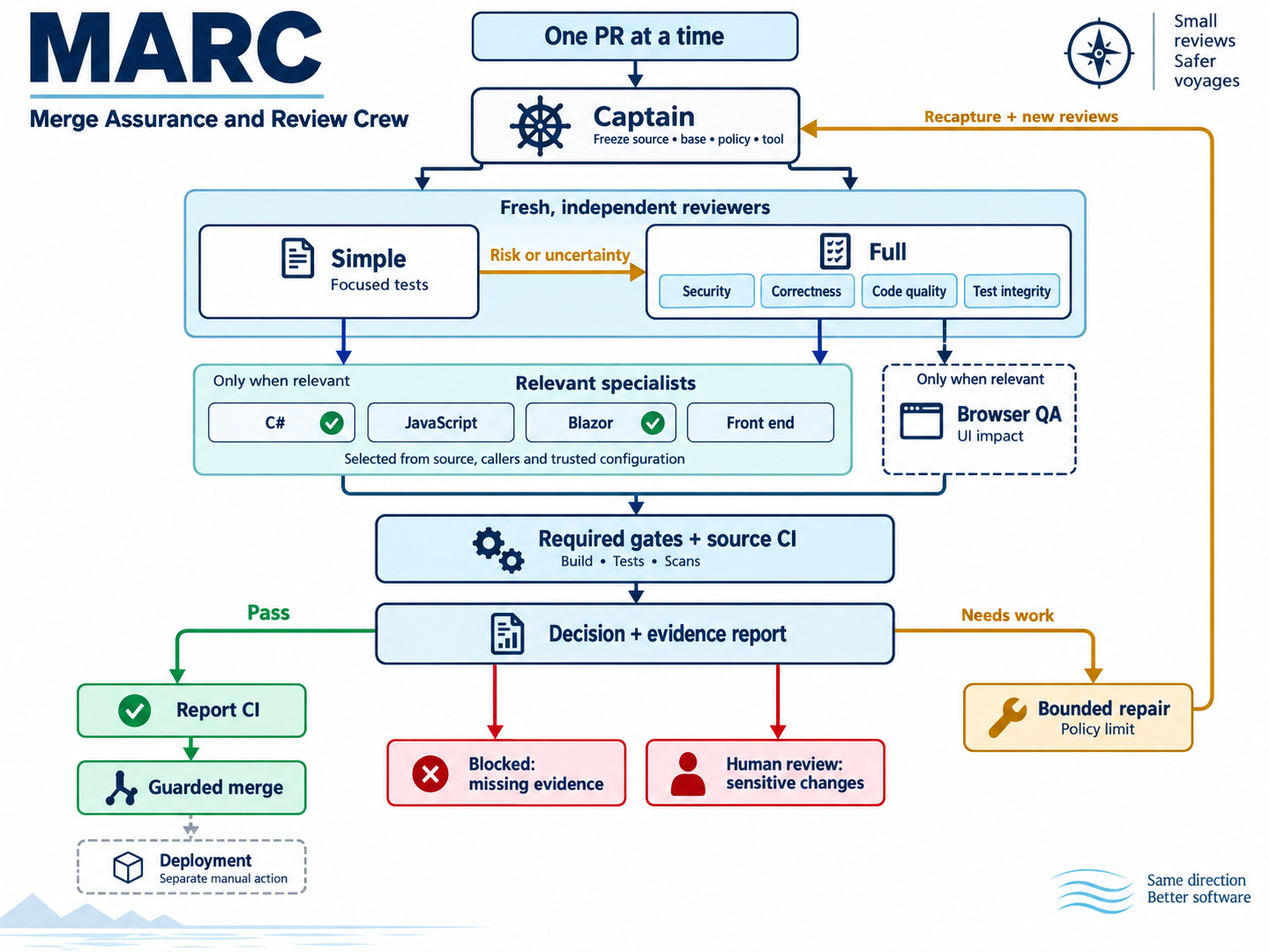
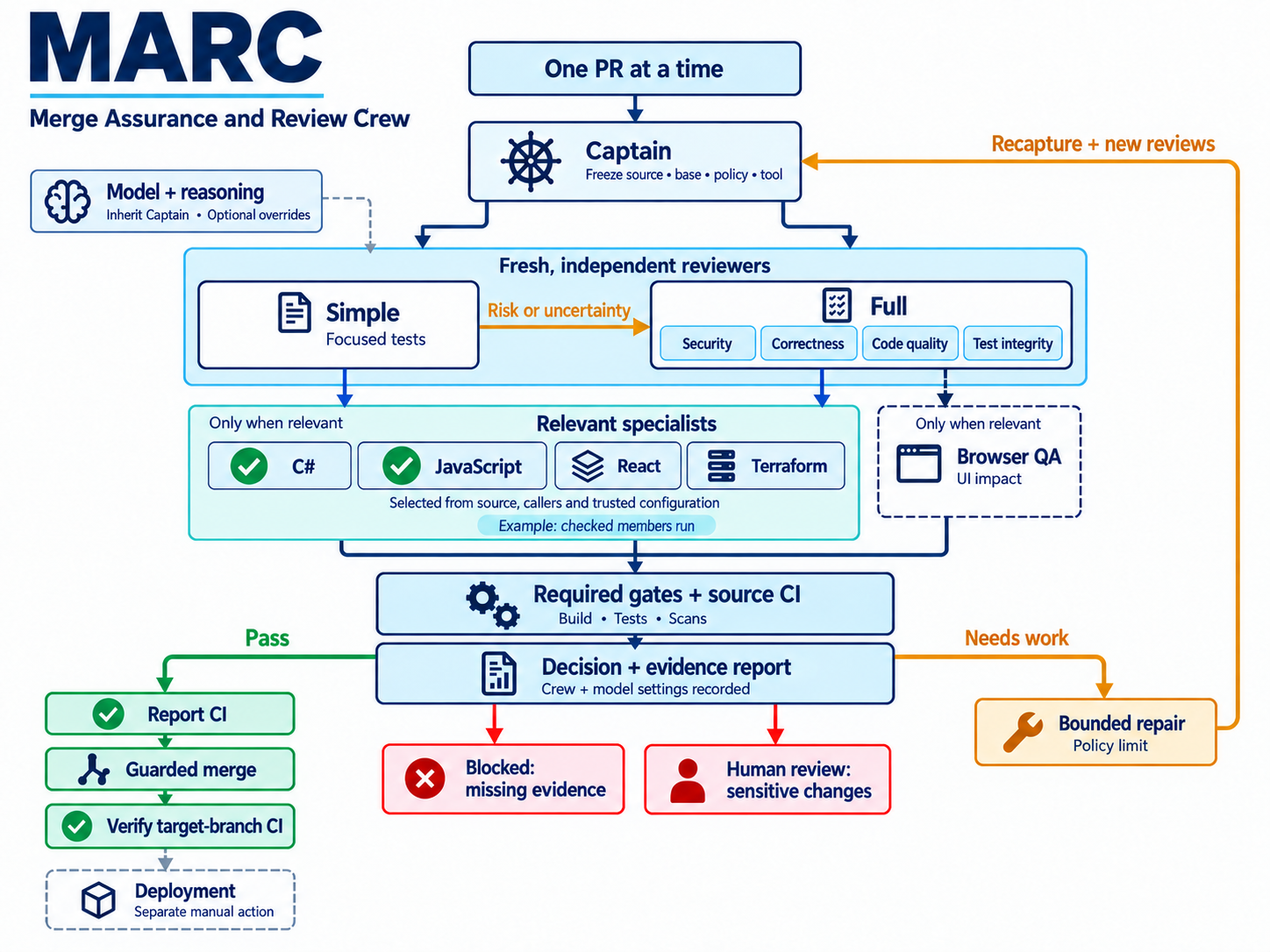
feat: update documentation to clarify register update criteria and improve workflow infographics

diff --git a/docs/workflow-infographic.md b/docs/workflow-infographic.md
@@ -1,41 +1,30 @@
 # MARC workflow infographic
 
-![MARC Captain selects a simple or full independent review route, recruits relevant specialists, requires source CI, records evidence, and routes to holds, bounded repair or report CI and guarded merge. Deployment is separate.](assets/marc-workflow.png)
+![MARC selects fresh independent reviews and relevant specialists, with C# and JavaScript checked as an example subset, records model settings, and checks source, report and post-merge target-branch CI. Holds, bounded repair and separate manual deployment remain visible.](assets/marc-workflow.png)
 
-The diagram describes the implementation at `572b23ef5e642fe73e02e21538b413ba39836043`. Selected specialists supplement either route; the illustrated check marks are an example subset, not a fixed crew. UI impact requires full review and browser evidence. Passing source review leads to a report commit whose CI must pass before the guarded merge. MARC verifies target-branch CI after merging; deployment remains a separate manual action. Report-only mode records the decision without merging.
+The diagram describes the review implementation at `0639299ed3838be5761325ac842a201839ce596d`. It focuses on PR assurance; installation and configuration are covered in the [separate setup diagram](setup-infographic.md).
+
+Selected specialists supplement either the simple or full route. Green checks on C# and JavaScript identify the members used in this example; React and Terraform illustrate available but unselected expertise. This is an illustrative subset, not a fixed crew or a file-extension-only selection rule. Source, affected callers and trusted configuration determine the actual selection. UI impact requires full review and browser evidence.
+
+Crew model and reasoning settings inherit the Captain unless configured defaults or member overrides apply. Reports identify inherited or configured selections and distinguish requested settings from actual values when telemetry is unavailable. See [crew model settings](configuration.md#optional-crew-model-overrides).
+
+Passing source review leads to a report commit whose CI must pass before guarded merge. MARC then verifies target-branch CI and stops the queue if it fails. Deployment remains a separate manual action. Report-only mode completes report CI without merging.
 
 Unknown impact broadens review. Missing evidence or expertise holds; sensitive changes require the configured human decision. Repairs stay within the consumer policy budget and require recapture and fresh reviewers. Community contributions add deliberately installed, versioned specialists through the [crew contract](crew.md).
 
 ## Generation and verification
 
-Created on 2026-09-13 using the built-in image-generation tool. The historical reference was preserved; this is a new asset. Visually checked spelling, contrast, arrows, conditional specialists/browser review, independent review routes, report CI, separate hold labels, bounded repair return and deployment separation against the [Captain](../skills/marc-crew-captain/SKILL.md), [crew contract](crew.md) and controller.
+Originally created on 2026-09-13; refreshed on 2026-09-14 using the built-in image-generation tool. The final revision restores two selected-specialist checkmarks and keeps operational update mechanics outside this diagram, while retaining the model/reasoning callout and post-merge CI verification.
 
-## Reproduction brief
+Visually checked spelling, contrast, arrows, the selected subset, conditional browser review, independent routes, report CI, separate hold labels, bounded repair return and deployment separation against the [Captain](../skills/marc-crew-captain/SKILL.md) and configuration guide. Local documentation links and `git diff --check` were checked. No runtime, hosted-CI or live consumer validation is implied.
+
+## Final edit prompt
+
+The edit target was the preceding 2026-09-14 refresh. This prompt records the final requested changes; the image above is the resulting asset.
 
 ```text
-Use case: infographic-diagram.
-Create a polished, highly legible landscape infographic for an open-source software repository README. Approximately 4:3 landscape. White background, navy text and outlines, pale blue/teal panels, green success path, amber repair loop, red hold paths. Crisp editorial vector-like illustration with generous spacing and minimal words. Subtle nautical crew theme: a small ship-wheel icon for the Captain, compass/routing motifs, no decorative pirate characters. Large typography, excellent contrast. Accurate clean arrows, no crossing through text.
-
-Title exactly: "MARC"
-Subtitle exactly: "Merge Assurance and Review Crew"
-
-Explain the actual workflow with these exact labels:
-Top: "One PR at a time" flows to central "Captain" with small sublabel "Freeze source • base • policy • tool".
-Captain branches into two review routes:
-Left panel "Simple" and "Focused tests".
-Right panel "Full" with four compact boxes "Security", "Correctness", "Code quality", "Test integrity".
-Label spanning these panels "Fresh, independent reviewers".
-An amber arrow labelled "Risk or uncertainty" goes from Simple to Full.
-
-Below these two routes, a shared pale teal panel titled "Relevant specialists" with four small equally styled chips "C#", "JavaScript", "Blazor", "Front end". Small explanatory line exactly "Selected from source, callers and trusted configuration". This is an optional selected subset, not all four on every PR. Show small selection check marks on only two chips as illustration. Label nearby "Only when relevant". Both Simple and Full may have selected specialists. A separate dashed box "Browser QA" with sublabel "UI impact" joins the assessment flow conditionally.
-
-Both routes and the specialists feed the central box "Required gates + source CI", with small "Build • Tests • Scans".
-Then flow to "Decision + evidence report".
-Branch from this decision:
-Green path "Pass" to "Report CI" and then "Guarded merge".
-Red path to two clearly separate hold boxes: "Blocked: missing evidence" and "Human review: sensitive changes".
-Amber path to "Bounded repair" with sublabel "Policy limit"; loop back to Captain labelled "Recapture + new reviews". Do not connect repair directly to merge.
-Under Guarded merge, a separated dashed grey box "Deployment" with sublabel "Separate manual action"; use a dotted connector so deployment is visibly outside MARC.
-
-Keep all text exactly spelled; do not invent other text or logos. Do not use old COQ naming or any consumer repository name. Avoid implying that optional specialists replace mandatory gates, that every specialist always runs, or that a report alone authorizes merging. Favor clarity over decorative elements; every arrow must have an unambiguous source and destination.
+Use case: infographic-diagram. Edit the supplied MARC workflow infographic. Preserve its existing visual style, all wording and structure except two precise changes.
+1. Remove the entire "MARC update check" box and its sublabel. Connect "One PR at a time" directly to "Captain". Reflow upward to use the freed space elegantly. There must be no mention of updates anywhere.
+2. In "Relevant specialists", replace the three broad category chips with FOUR concrete specialist chips: "C#", "JavaScript", "React", "Terraform". Put a prominent green circular checkmark next to C# and JavaScript ONLY. React and Terraform remain neutral unselected chips without ticks or crosses. Add small legend "Example: checked members run". Retain "Only when relevant" and "Selected from source, callers and trusted configuration". This clearly depicts selecting two of four example available specialists.
+Preserve: MARC title and full expansion; Captain frozen source/base/policy/tool; model + reasoning inheritance and optional overrides callout; Simple focused tests and Full four reviewers as alternatives, risk/uncertainty escalation; conditional Browser QA; source gates/CI; decision/evidence report with model settings; green report CI -> guarded merge -> verify target-branch CI; separate manual deployment; two distinct red holds; bounded repair returning to Captain for recapture + new reviews. Clear arrows, no text crossings. Keep typography large, minimal wording, white/navy/blue/teal palette, original landscape proportions. Do not add new workflow steps.
 ```

diff --git a/docs/setup-infographic.md b/docs/setup-infographic.md
@@ -1,0 +1,57 @@
+# MARC setup infographic
+
+![MARC setup progresses from choosing a repository and harness through inspection, crew and policy proposals, confirmation, installation and validation. Missing expertise has an optional proposal path. Reruns preserve existing setup; setup does not start reviews or authorize merging.](assets/marc-setup.png)
+
+This diagram summarizes the [setup prompt](setup-prompt.md) and the README's [setup responsibilities](../README.md#what-setup-does). It is separate from the [PR review workflow](workflow-infographic.md).
+
+The Captain inspects the target repository before proposing crew members, exact versions, scope and policy. Missing expertise prompts a proposal to create or extend a member with separate approval; the diagram does not imply that an unavailable member can be installed as working configuration. First setup presents the complete configuration for confirmation before applying authorized changes.
+
+Reruns preserve existing customizations, reviewed exceptions and shared state. Configuration changes require confirmation; missing forwarding files can be repaired without repeating approval. Validation reports unresolved prerequisites and the next invocation. It does not establish live reviewer capability or grant permission to process PRs or merge.
+
+## Generation and verification
+
+Created on 2026-09-14 using the built-in image-generation tool. Visually checked labels, numbered sequence, direct proposal-to-confirmation route, optional expertise-gap branch, rerun notes and separation from review/merge authorization against the setup prompt. Local Markdown link targets and `git diff --check` were checked. Documentation and illustration only; no runtime, hosted-CI or live consumer validation.
+
+## Reproduction prompt
+
+```text
+Use case: infographic-diagram. Create a new separate MARC setup infographic for an open-source repository README. Landscape 4:3, polished editorial vector-like style, white background, navy text/outlines, pale blue panels, teal highlights, amber conditional path, restrained green completion. Large readable type, generous spacing, very few words, ship-wheel icon for Captain, no pirate characters or invented slogans. Visually match a professional MARC workflow chart.
+
+Title exactly "MARC setup"
+Subtitle "From your repository to a configured crew"
+
+Layout: six numbered cards on a clear serpentine path: top row 1 -> 2 -> 3, then down from 3 to 4 at bottom right, then 4 -> 5 -> 6 moving left. Arrowheads clear and outside cards. Each card has a simple icon and the following exact short text:
+1 "Choose repository"
+   "Path or URL"
+   "Codex • Claude Code • Cursor"
+2 "Captain inspects"
+   "Source • Architecture • Tests • CI"
+3 "Propose crew + policy"
+   "Relevant expertise • Versions • Scope"
+4 "Review + confirm"
+   "Settings • Permissions • Changes"
+5 "Install + configure"
+   "Pinned MARC • Crew • Shared state"
+6 "Validate + hand off"
+   "Checks • Prerequisites • Next step"
+
+Between the two rows place a compact amber optional branch from card 3:
+"Missing expertise?" -> "Propose new or extended member"
+under it "Separate approval", with a return arrow to card 4. Make this a clearly optional proposal path, not an automatic authoring action. Do not suggest installing invented members.
+
+Below the main flow, two simple compact note strips:
+"Reruns preserve existing setup"
+"Confirm configuration changes"
+And a visually distinct dashed footer:
+"Setup does not start PR reviews or authorize merging"
+
+Do not add automatic review/merge/deploy steps, code snippets, file paths, technical internals, update mechanism boxes, credentials, unsupported success promises, or external skill loading. Validation can reveal prerequisites, so do not label completion 'ready to merge' or show every prerequisite as passed. Green only accents the handoff icon. Maintain concise exact labels and easily followed non-overlapping arrows.
+```
+
+### Connector refinement
+
+The first generated image placed the optional proposal on the only path between steps 3 and 4. Apply this edit to preserve a direct main route:
+
+```text
+Edit the supplied MARC setup infographic. Keep all text, cards, icons, colours, numbers, and placement unchanged. Fix only the connector between step 3 and step 4 so the amber missing-expertise box is a TRUE OPTIONAL SIDE BRANCH instead of the only route. Add a clear NAVY solid main arrow directly from step 3 "Propose crew + policy" to step 4 "Review + confirm", bypassing the optional box along the left side of the right column. Use right-angle bends in the blank center area with ample margin, no overlap with any cards, numbers, text, or existing arrows. Keep the existing amber 3 -> Missing expertise -> 4 route as the optional branch. The main navy direct route must be visually clear. Change nothing else.
+```

diff --git a/README.md b/README.md
@@ -8,7 +8,7 @@ Start with the [setup prompt](docs/setup-prompt.md), then read the [configuratio
 
 The [Captain](skills/marc-crew-captain/SKILL.md) leads the simplicity, simple-tests, security, correctness, code-quality, test-integrity and repair skills. Configured [language, framework and front-end specialists](docs/crew.md) supplement the current simple/full routes based on captured source, callers and trusted dependency relationships. Deployment remains separate.
 
-![MARC workflow: the Captain selects independent reviews and relevant specialists, checks CI, records evidence, and routes to guarded merge, bounded repair or a clear hold. Deployment is separate.](docs/assets/marc-workflow.png)
+![MARC workflow: independent reviews and relevant specialists, with C# and JavaScript checked as an example selected subset; optional model settings, source and report CI, guarded merge and target-branch CI verification, bounded repair and clear holds. Deployment is separate.](docs/assets/marc-workflow.png)
 
 MARC is for repositories that want independent PR assurance, auditable decisions and bounded repairs while retaining their own policy and CI. Specialists run when relevant; missing evidence holds the PR. [Read the workflow and diagram notes](docs/workflow-infographic.md).
 
@@ -31,6 +31,10 @@ By default, crew members use the Captain's model and reasoning settings; no mode
 Reports end with a **Crew used** table showing each session's model and reasoning selection, including **Same model (Captain)** and **Same reasoning effort (Captain)** when inherited. Overrides and configured defaults are labelled; actual values are shown when exposed by the harness, otherwise requested values are identified as such.
 
 ## What setup does
+
+![MARC setup: choose a repository and harness, inspect the source and CI, propose crew and policy, confirm settings, install and configure, then validate and hand off. Missing expertise prompts a separate proposal. Setup does not start PR reviews or authorize merging.](docs/assets/marc-setup.png)
+
+[Read the setup diagram notes](docs/setup-infographic.md).
 
 The [setup agent](docs/setup-prompt.md) is instructed to:
 

diff --git a/skills/marc-crew-captain/IMPROVEMENTS.md b/skills/marc-crew-captain/IMPROVEMENTS.md
@@ -1,5 +1,9 @@
 # marc-crew-captain improvements
 
+## 2026-09-14 — Material process changes only
+
+Restricted register updates to changes that materially alter process behavior, criteria, gates or capabilities, at the owner's request to keep the register useful. Routine documentation and visual edits no longer trigger entries. Aligned repository guidance and register footers; preserved historical records and ordinary assessment reports. Local metadata/catalogue and whitespace validation only; no model evaluation, hosted CI or consumer activation. The instruction change takes effect for consumers through their normal bundle upgrade.
+
 ## 2026-09-14 — README setup and customization guide
 
 Summarized the existing setup contract in the README, including discovery, member proposals, confirmation on first setup and reruns, automatic updates and validation. Recommended starting with the supplied skills and process, then cloning or forking for team-specific changes to MARC while keeping consumer settings in consumer configuration. Documentation only; no setup instructions, runtime behavior or authority changes.
@@ -38,7 +42,7 @@ Added immutable specialist selection, explicit selected/omitted reasons, fresh s
 
 Moved this member into its own published skill folder, preserving its instructions and sibling references. Consumer configuration remains explicit; controller commands now resolve under `src/quality`. This starts standalone member history without importing consumer reports or inventing historical entries. See [layout decisions](../../docs/repository-layout.md).
 
-Update this file and the [umbrella register](../../IMPROVEMENTS.md) together for an authorized member change.
+Update this file and the [umbrella register](../../IMPROVEMENTS.md#register-scope) together only for an authorized material change to the process; routine documentation, infographic, formatting and housekeeping edits need no entry.
 
 ## 2026-09-13 — Harness handoffs
 

diff --git a/IMPROVEMENTS.md b/IMPROVEMENTS.md
@@ -1,7 +1,14 @@
 # MARC improvements
 
+## Register scope
+
+Record material changes to MARC's process: review criteria, routing, evidence gates, authority, budgets, supported capabilities and operational behavior. Update the affected member/component register and add a terse linked entry here in the same change.
+
+Do not record routine documentation, infographic, formatting, file moves or repository housekeeping unless they materially change how the process operates. Judge the behavioral effect, not the file type: a skill instruction that changes a review decision qualifies; a diagram explaining existing behavior does not. Keep ordinary PR assessments in reports and preserve historical entries.
+
 | Date | Component | Improvement | Details |
 | --- | --- | --- | --- |
+| 2026-09-14 | Register policy | Limited entries to material process changes; excluded routine documentation and visual updates. | [Captain](skills/marc-crew-captain/IMPROVEMENTS.md#2026-09-14--material-process-changes-only), [creator](skills/marc-crew-creator/IMPROVEMENTS.md#2026-09-14--material-process-changes-only) |
 | 2026-09-14 | README | Summarized setup responsibilities and recommended starting with the supplied process before team-specific customization. | [Captain register](skills/marc-crew-captain/IMPROVEMENTS.md#2026-09-14--readme-setup-and-customization-guide) |
 | 2026-09-14 | README | Made optional crew model overrides and report labels visible from the project entry point. | [Captain register](skills/marc-crew-captain/IMPROVEMENTS.md#2026-09-14--readme-model-selection-guide) |
 | 2026-09-14 | Controller and Captain | Added optional crew model/reasoning overrides and explicit inheritance/override reporting, with no configured model defaults. | [Controller register](src/quality/IMPROVEMENTS.md#2026-09-14--optional-crew-model-selections), [Captain register](skills/marc-crew-captain/IMPROVEMENTS.md#2026-09-14--optional-crew-model-selections) |

diff --git a/skills/marc-crew-creator/SKILL.md b/skills/marc-crew-creator/SKILL.md
@@ -41,7 +41,7 @@ Translate each substantive recommendation into an actionable review question: wh
 
 Define honest `covers` and applicability, including positive, negative and relevant overlap cases. Determine whether existing trusted area mappings already suffice before changing the router. Do not infer a framework solely from an ambiguous extension; account for shared/indirect callers and nonstandard paths. If routing needs code changes, add a failing regression first and fix the owning behavior, preserving missing-expertise holds and appropriate full/browser requirements. Do not let a new specialist replace a mandatory gate.
 
-Update crew/setup documentation where discovery or activation changes, plus the member and root improvement registers. Update the shared component register if controller behavior changes. Keep instructions generic: consumer identities, paths, exceptions and operational state belong to consumers. Creating a member does not activate it anywhere. Change consumer pins/member versions/areas only when that activation is within the user's authorized scope, and preserve existing state and budgets.
+Update affected crew/setup documentation. Update the member and root improvement registers only for material process changes, such as new expertise, changed review criteria, routing or activation behavior; follow the [register scope](../../IMPROVEMENTS.md#register-scope). Routine documentation, infographic, formatting and housekeeping edits need no entry unless they change how the process operates. Update the shared component register for material controller process changes. Keep instructions generic: consumer identities, paths, exceptions and operational state belong to consumers. Creating a member does not activate it anywhere. Change consumer pins/member versions/areas only when that activation is within the user's authorized scope, and preserve existing state and budgets.
 
 ## Validate and finish
 

diff --git a/CONTRIBUTING.md b/CONTRIBUTING.md
@@ -8,4 +8,4 @@ For a bug, add a focused regression that fails for the defect before fixing it. 
 
 Branch pushes run `npm run build` (JavaScript syntax validation, with no emitted bundle) and `npm test`. PRs run `npm run validate:catalogue` and `npm run test:scenarios`; fork PRs also run the complete Node checks. For instruction changes, use `npm run eval:plan -- --base origin/master --head HEAD` after committing the candidate and refreshing the base ref. The command compares committed inputs and generates a manual comparison plan without model calls. Include results or a reasoned maintainer-reviewed waiver in the PR; the initial reminder does not enforce either. See [check coverage and manual eval procedure](docs/contribution-checks.md).
 
-Update the affected member/component IMPROVEMENTS.md, the root umbrella and documentation in the same change. Preserve third-party copyright and licence notices. Follow the [versioned crew contribution contract](docs/crew.md), including declared read-only permissions, semantic version, applicability cases and affected-caller tests. Do not introduce a new optional reviewer by silently replacing a mandatory gate.
+Update affected documentation in the same change. Update the affected member/component IMPROVEMENTS.md and root umbrella only for material process changes, following the [register scope](IMPROVEMENTS.md#register-scope). Routine documentation, infographic, formatting and housekeeping edits need no entry unless they change how the process operates. Preserve third-party copyright and licence notices. Follow the [versioned crew contribution contract](docs/crew.md), including declared read-only permissions, semantic version, applicability cases and affected-caller tests. Do not introduce a new optional reviewer by silently replacing a mandatory gate.

diff --git a/docs/crew.md b/docs/crew.md
@@ -101,7 +101,7 @@ Change the member version when its contract/instructions change; preserve the ID
 
 Installation is deliberate: review contribution instructions, references, scope, claimed coverage, permissions and focused tests before adding the bundle version to trusted consumer configuration. The installer creates discovery wrappers, not authority to use every discovered member. Host permissions/isolation must enforce these boundaries; JSON permission declarations do not create a sandbox. Do not ship executable specialist hooks as implicit reviewer setup.
 
-Run `node --test src/quality/crew.test.cjs` and validate each changed skill's metadata. Add meaningful source/caller and gate regressions when extending the router; manifest examples alone do not prove review quality. Update the member and umbrella registers together. Other ecosystems can contribute the same declarative contract, trusted area mappings and synthetic tests without access to any private consumer repository.
+Run `node --test src/quality/crew.test.cjs` and validate each changed skill's metadata. Add meaningful source/caller and gate regressions when extending the router; manifest examples alone do not prove review quality. Update the member and umbrella registers together only for material process changes, following the [register scope](../IMPROVEMENTS.md#register-scope). Other ecosystems can contribute the same declarative contract, trusted area mappings and synthetic tests without access to any private consumer repository.
 
 ## Infrastructure specialists
 

diff --git a/AGENTS.md b/AGENTS.md
@@ -6,4 +6,4 @@ Read README.md and docs/repository-layout.md before structural changes. Runtime 
 
 Use Node.js 24 or later for local checks. Run focused node tests for changed behavior. The optional ASP.NET browser hook needs .NET 10 and an explicit external artifact directory. Do not run broad application builds, model evaluations or hosted CI unless requested. The initial extraction uses local validation because the owner has exhausted hosted build minutes.
 
-Keep changes focused; update affected documentation, the member/component improvement register and the root IMPROVEMENTS.md. Preserve third-party notices. Do not publish, deploy or change a consumer's merge authority merely because packaging changed. Do not delegate to subagents unless the user explicitly asks.
+Keep changes focused and update affected documentation. Update the member/component improvement register and root IMPROVEMENTS.md only for material changes to MARC's process, following the root register's scope. Routine documentation, infographic, formatting and repository housekeeping changes do not need entries unless they change how the process operates. Preserve third-party notices. Do not publish, deploy or change a consumer's merge authority merely because packaging changed. Do not delegate to subagents unless the user explicitly asks.

diff --git a/skills/marc-crew-captain/SKILL.md b/skills/marc-crew-captain/SKILL.md
@@ -15,7 +15,7 @@ Own the quality decision for the configured consumer repository. Resolve its set
 
 ## Process improvements register
 
-When implementing an authorized improvement, update the configured improvements register in the same change. Record the actual reason or `Reason unclear`, dated evidence, validation and activation limits. Preserve historical entries; ordinary PR assessments remain in reports. A read-only reviewer returns findings rather than editing the register.
+Update the configured improvements register in the same change only when an authorized change materially alters the assurance process: review criteria, routing, evidence gates, authority, budgets, supported capabilities or operational behavior. Routine documentation, infographic, formatting and housekeeping edits need no entry unless they change how the process operates; judge the behavioral effect, not the file type. For qualifying changes, record the actual reason or `Reason unclear`, dated evidence, validation and activation limits. Preserve historical entries; ordinary PR assessments remain in reports. A read-only reviewer returns findings rather than editing the register.
 
 ## Trusted controller and isolation
 

diff --git a/skills/marc-crew-creator/IMPROVEMENTS.md b/skills/marc-crew-creator/IMPROVEMENTS.md
@@ -1,5 +1,9 @@
 # Crew creator improvements
 
+## 2026-09-14 — Material process changes only
+
+Limited member/root register updates to material process changes such as new expertise, changed criteria, routing or activation behavior, following the owner's requested register scope. Routine documentation, diagrams and housekeeping no longer require entries. Local metadata/catalogue and whitespace validation only; no model evaluation, hosted CI or consumer activation.
+
 ## 2026-09-14 — Prompt improvement research plan
 
 Recorded a [prompt-improvements work plan](../../docs/work/20260914-prompt-improvements-work.md) from comparative skill research and vendor guidance. It prioritizes baseline cases, Captain structure, calibrated examples, requirement traceability and repair closeout. Reason: turn the requested research into an actionable backlog with explicit evidence and authority boundaries. Documentation only; creator/reviewer instructions and runtime behavior are unchanged, and no model evaluation or consumer activation is claimed.

diff --git a/skills/marc-crew-code-quality/IMPROVEMENTS.md b/skills/marc-crew-code-quality/IMPROVEMENTS.md
@@ -8,4 +8,4 @@ Standardized published names, paths and references on `marc-crew-<name>`. Preser
 
 Moved this member into its own published skill folder, preserving its instructions and sibling references. Consumer configuration remains explicit; controller commands now resolve under `src/quality`. This starts standalone member history without importing consumer reports or inventing historical entries. See [layout decisions](../../docs/repository-layout.md).
 
-Update this file and the [umbrella register](../../IMPROVEMENTS.md) together for an authorized member change.
+Update this file and the [umbrella register](../../IMPROVEMENTS.md#register-scope) together only for an authorized material change to the process; routine documentation, infographic, formatting and housekeeping edits need no entry.
